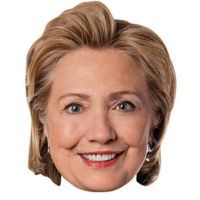
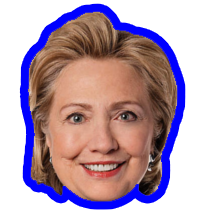
Style home page

diff --git a/index.html b/index.html
@@ -4,7 +4,7 @@
         <meta charset="utf-8">
         <meta http-equiv="X-UA-Compatible" content="IE=edge">
         <meta name="viewport" content="width=device-width, initial-scale=1">
-        <link href='https://fonts.googleapis.com/css?family=VT323' rel='stylesheet' type='text/css'>
+        <link href='https://fonts.googleapis.com/css?family=VT323&effect=3d' rel='stylesheet' type='text/css'>
 
         <title>Running for President</title>
 
@@ -15,26 +15,26 @@
 
     </head>
     <body>
-        <div class="navbar navbar-inverse navbar-static-top">
-            <div class="container">
-                <div class="navbar-header">                    
-                    <a class="navbar-brand" href="#">Running for President</a>
-                </div>
-            </div>
-        </div>
-        <h1 id="title">Running For President</h1>
+    <img src="images/white-house.jpg" id="bg" alt="">
+        <h1 id="title" class="font-effect-3d">Running For President</h1>
        <div class="container">
-            <div class="text-center">
-                <h1>Let's Start! Pick your hero</h1>                
-           </div>    
-           <br><br><br><br>            
+            <div class="row">
+                <div class="text-center">
+                    <h1 class="font-effect-3d" style="color: red; text-transform: uppercase">Pick your candidate!</h1>                
+               </div>  
+            </div>  
+            <br>
             <div class="row vertical-center-row">
-                <div class="pull-left col-md-2 col-md-offset-2">
+                <div class="col-md-3">
+                </div>
+                <div class="col-md-3">
                     <a href="./trump"><img src="images/trump_head.png" alt=""></a>
                 </div>
-                <div class="pull-left col-md-2 col-md-offset-2">
+                <div class="col-md-3">
                     <a href="./clinton"><img src="images/hillary_head.png" alt=""></a>
-                </div>    
+                </div>  
+                <div class="col-md-3">
+                </div>  
             </div>
         </div>
 

diff --git a/css/style.css b/css/style.css
@@ -45,7 +45,19 @@ a.spolier.collapsed:after {
 }
 
 #title {
-    font-size: 8em;
+    font-size: 12em;
     text-align: center;
     font-family: 'VT323', cursive;
+    line-height: .75em;
+}
+
+#bg {
+  position: fixed; 
+  top: 0; 
+  left: 0; 
+  
+  /* Preserve aspet ratio */
+  min-width: 100%;
+  min-height: 100%;
+  z-index: -1;
 }
